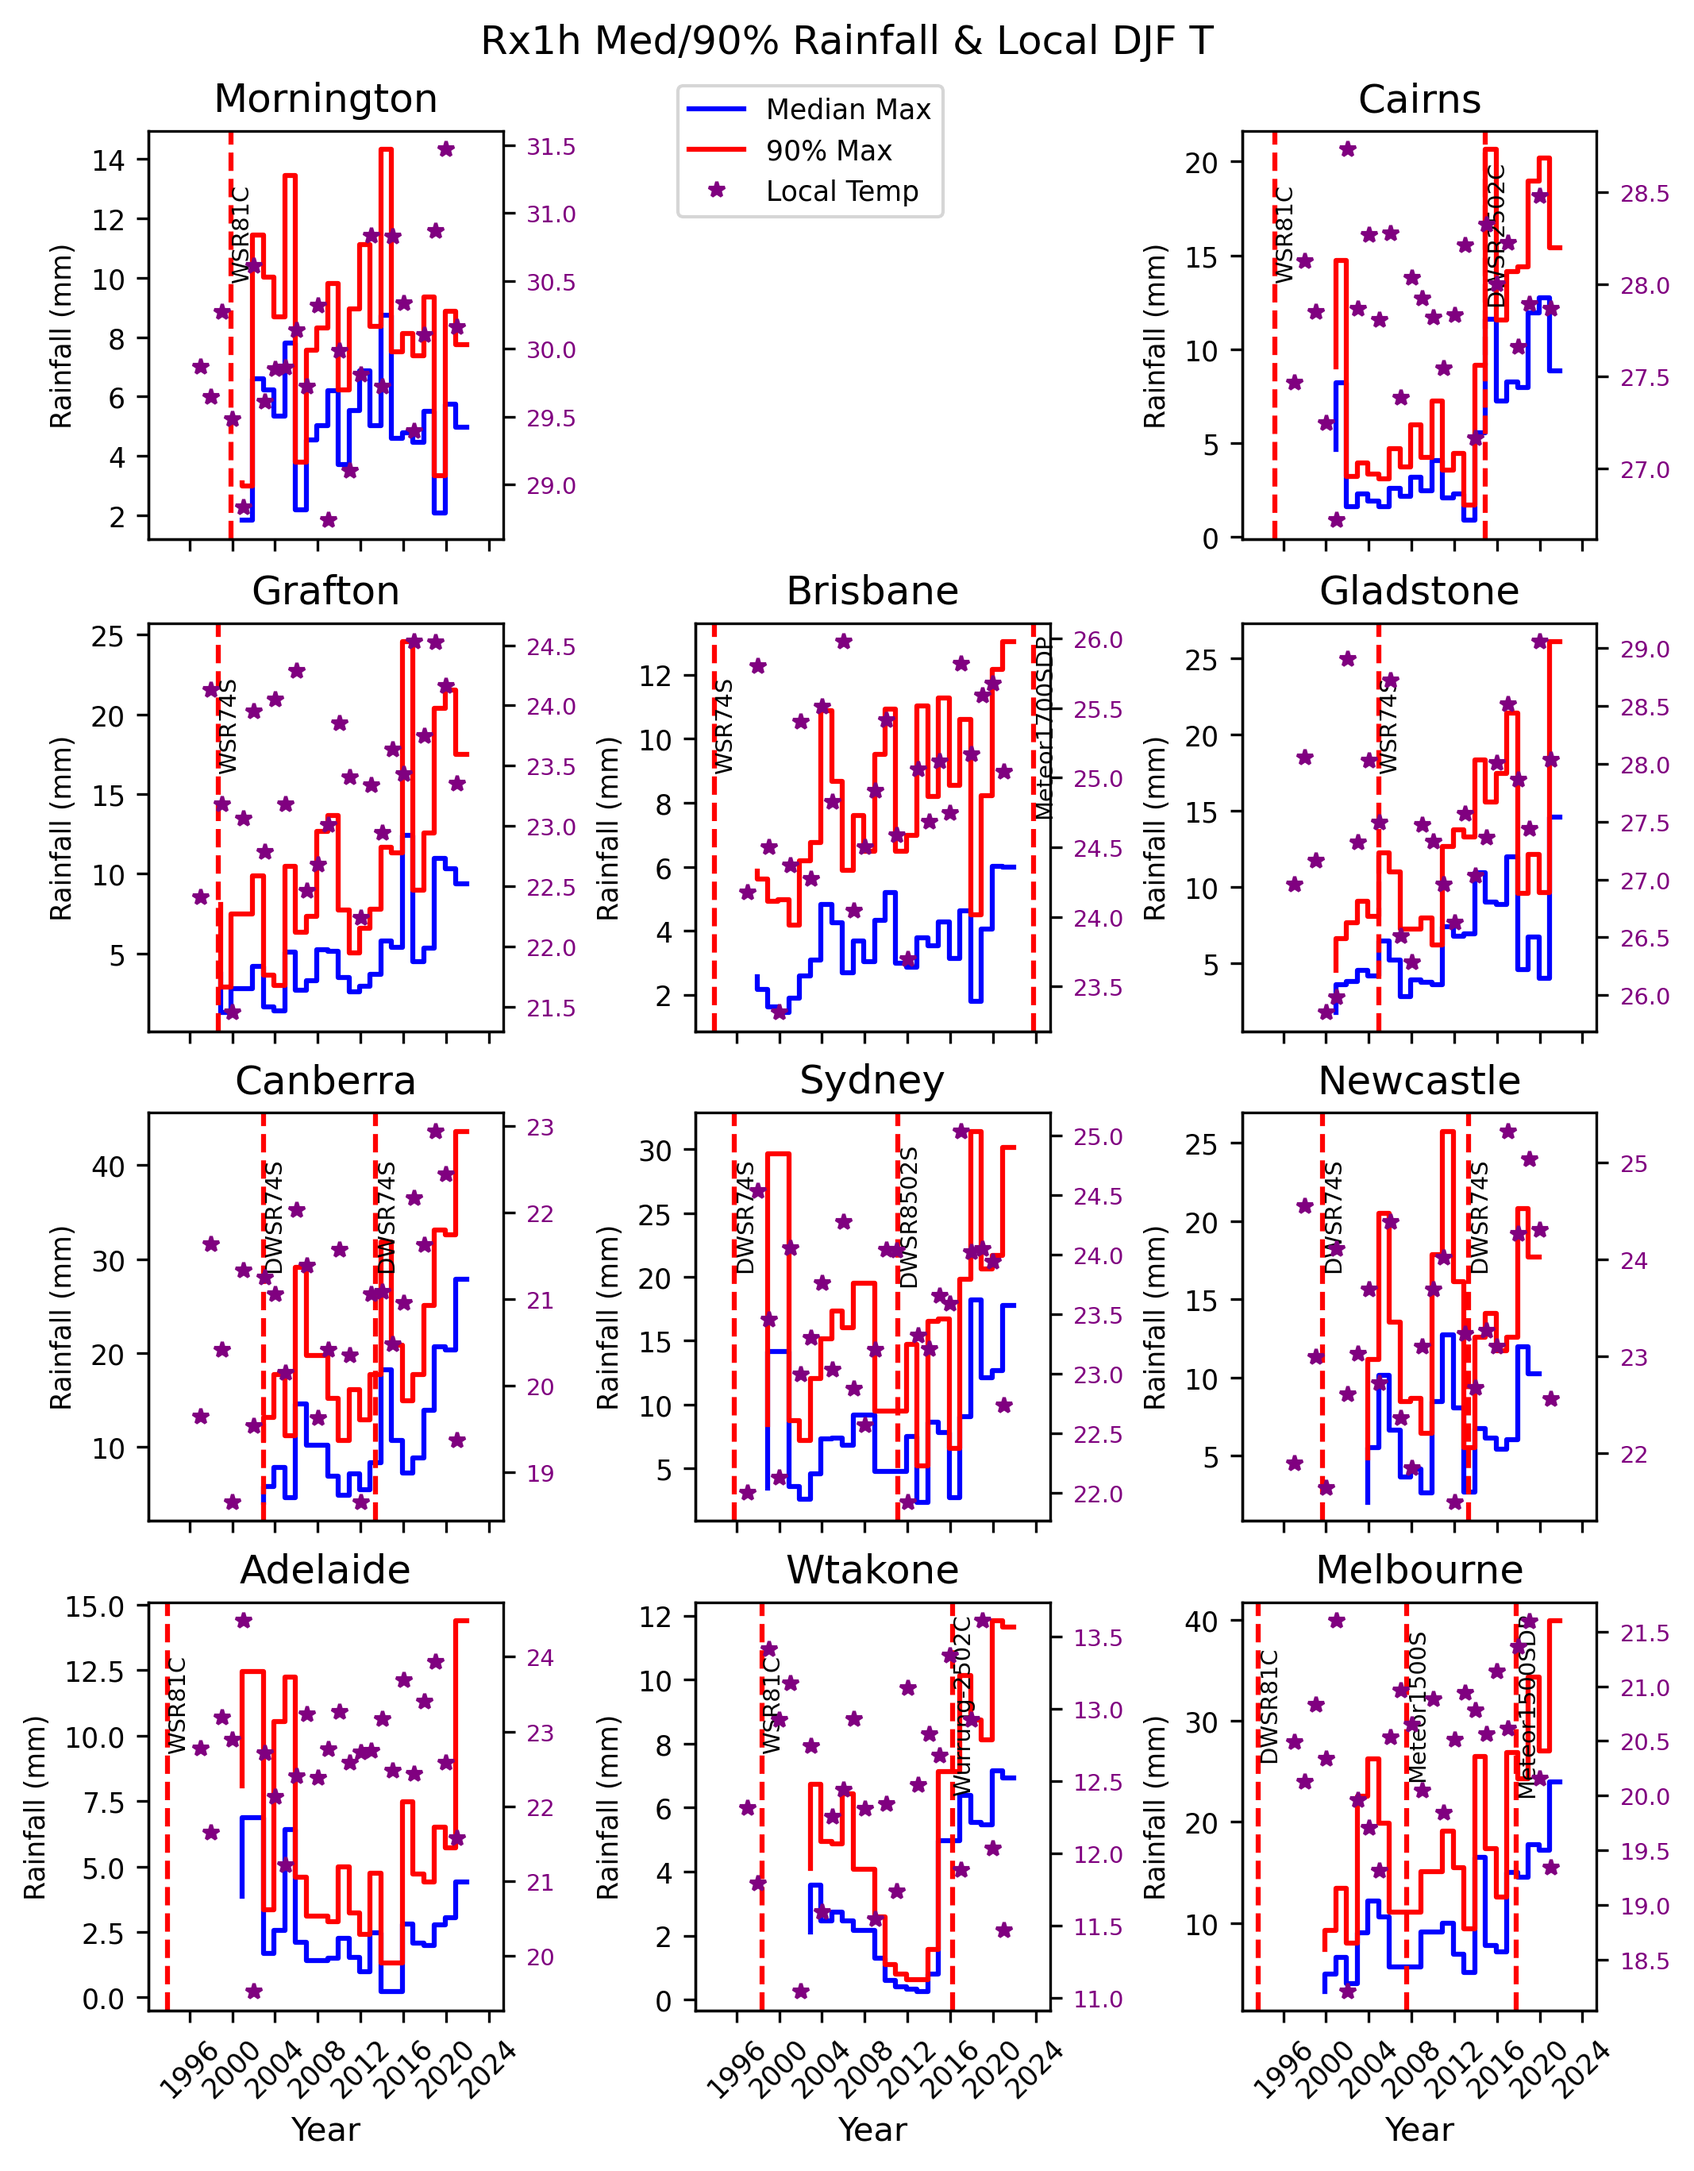
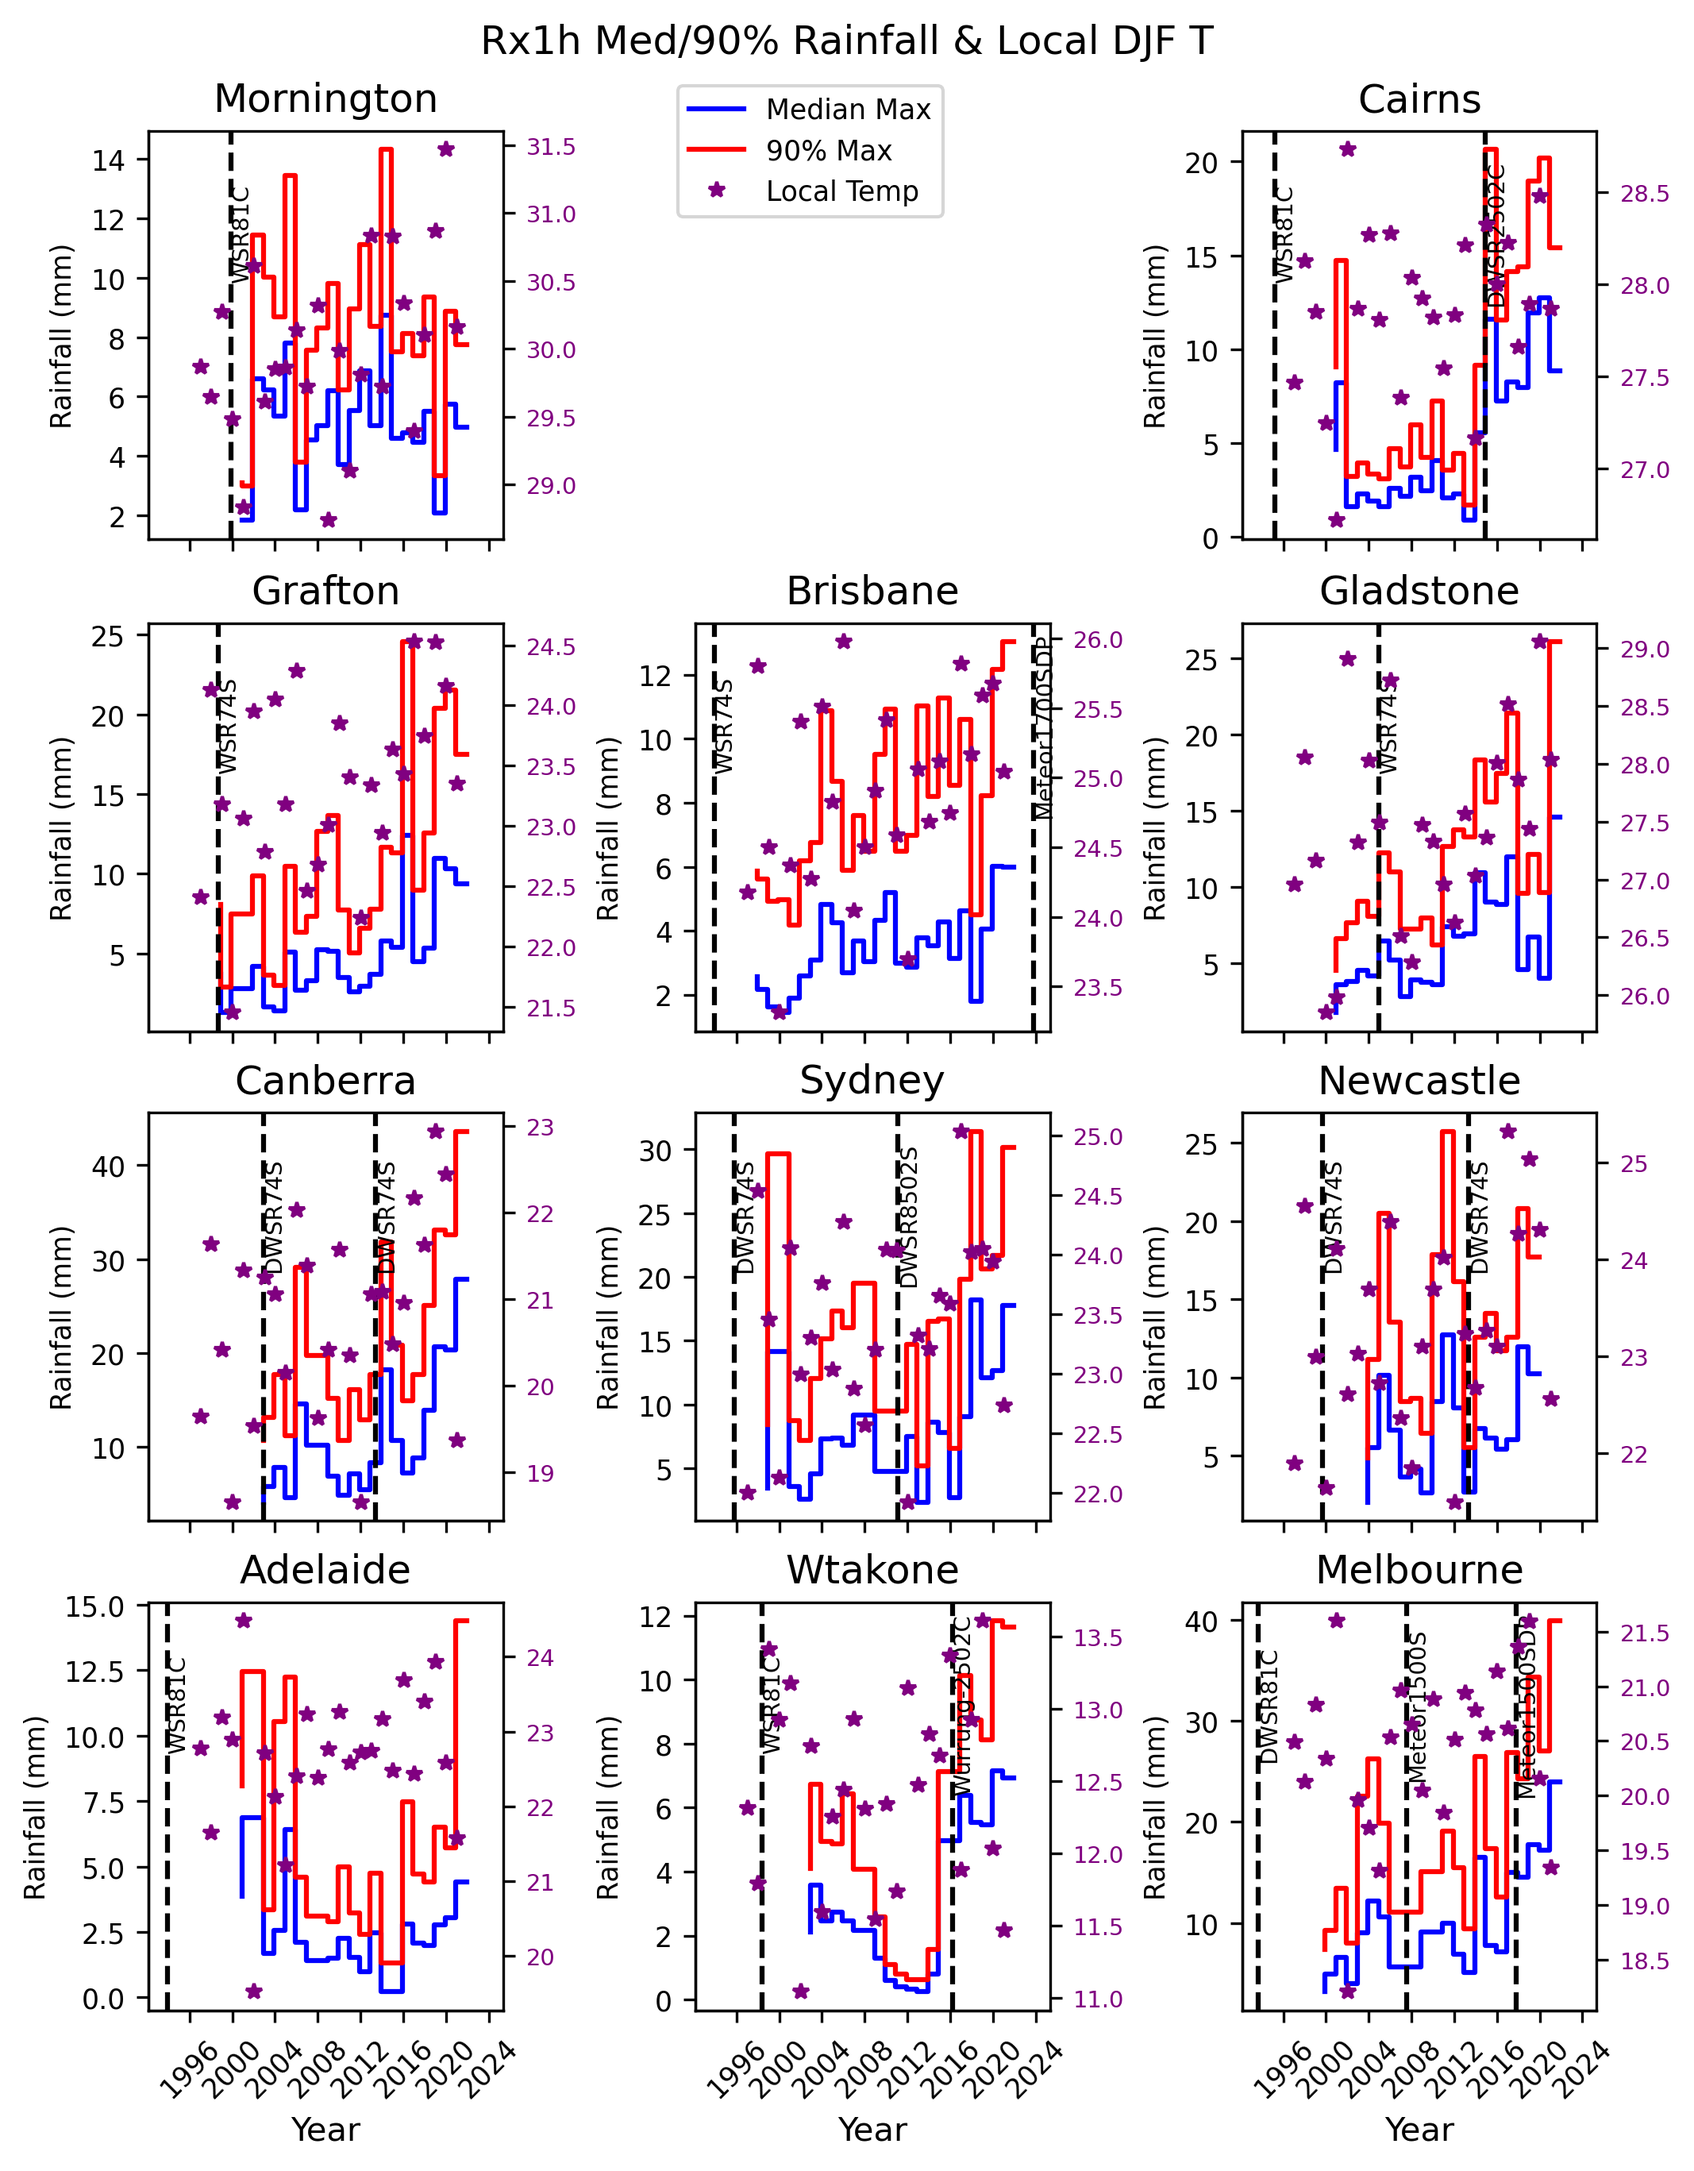
Bit if a clean up + code to plot t, median Rx1h & 90% Rx1h

diff --git a/plots/plot_temp_med_90.py b/plots/plot_temp_med_90.py
@@ -66,7 +66,7 @@ for site, ax in axes.items():
     y = 0.75 * lim[1] + 0.25 * lim[0]
     for name, r in records.iterrows():
         x = np.datetime64(r['postchange_start'])
-        axes[site].axvline(x, color='red', linestyle='--')
+        axes[site].axvline(x, color='k', linestyle='--')
         axes[site].text(x, y, r.radar_type, ha='left', va='center', fontsize='x-small', rotation=90)
     # add second axis for temperature
     ax2 = ax.twinx()
